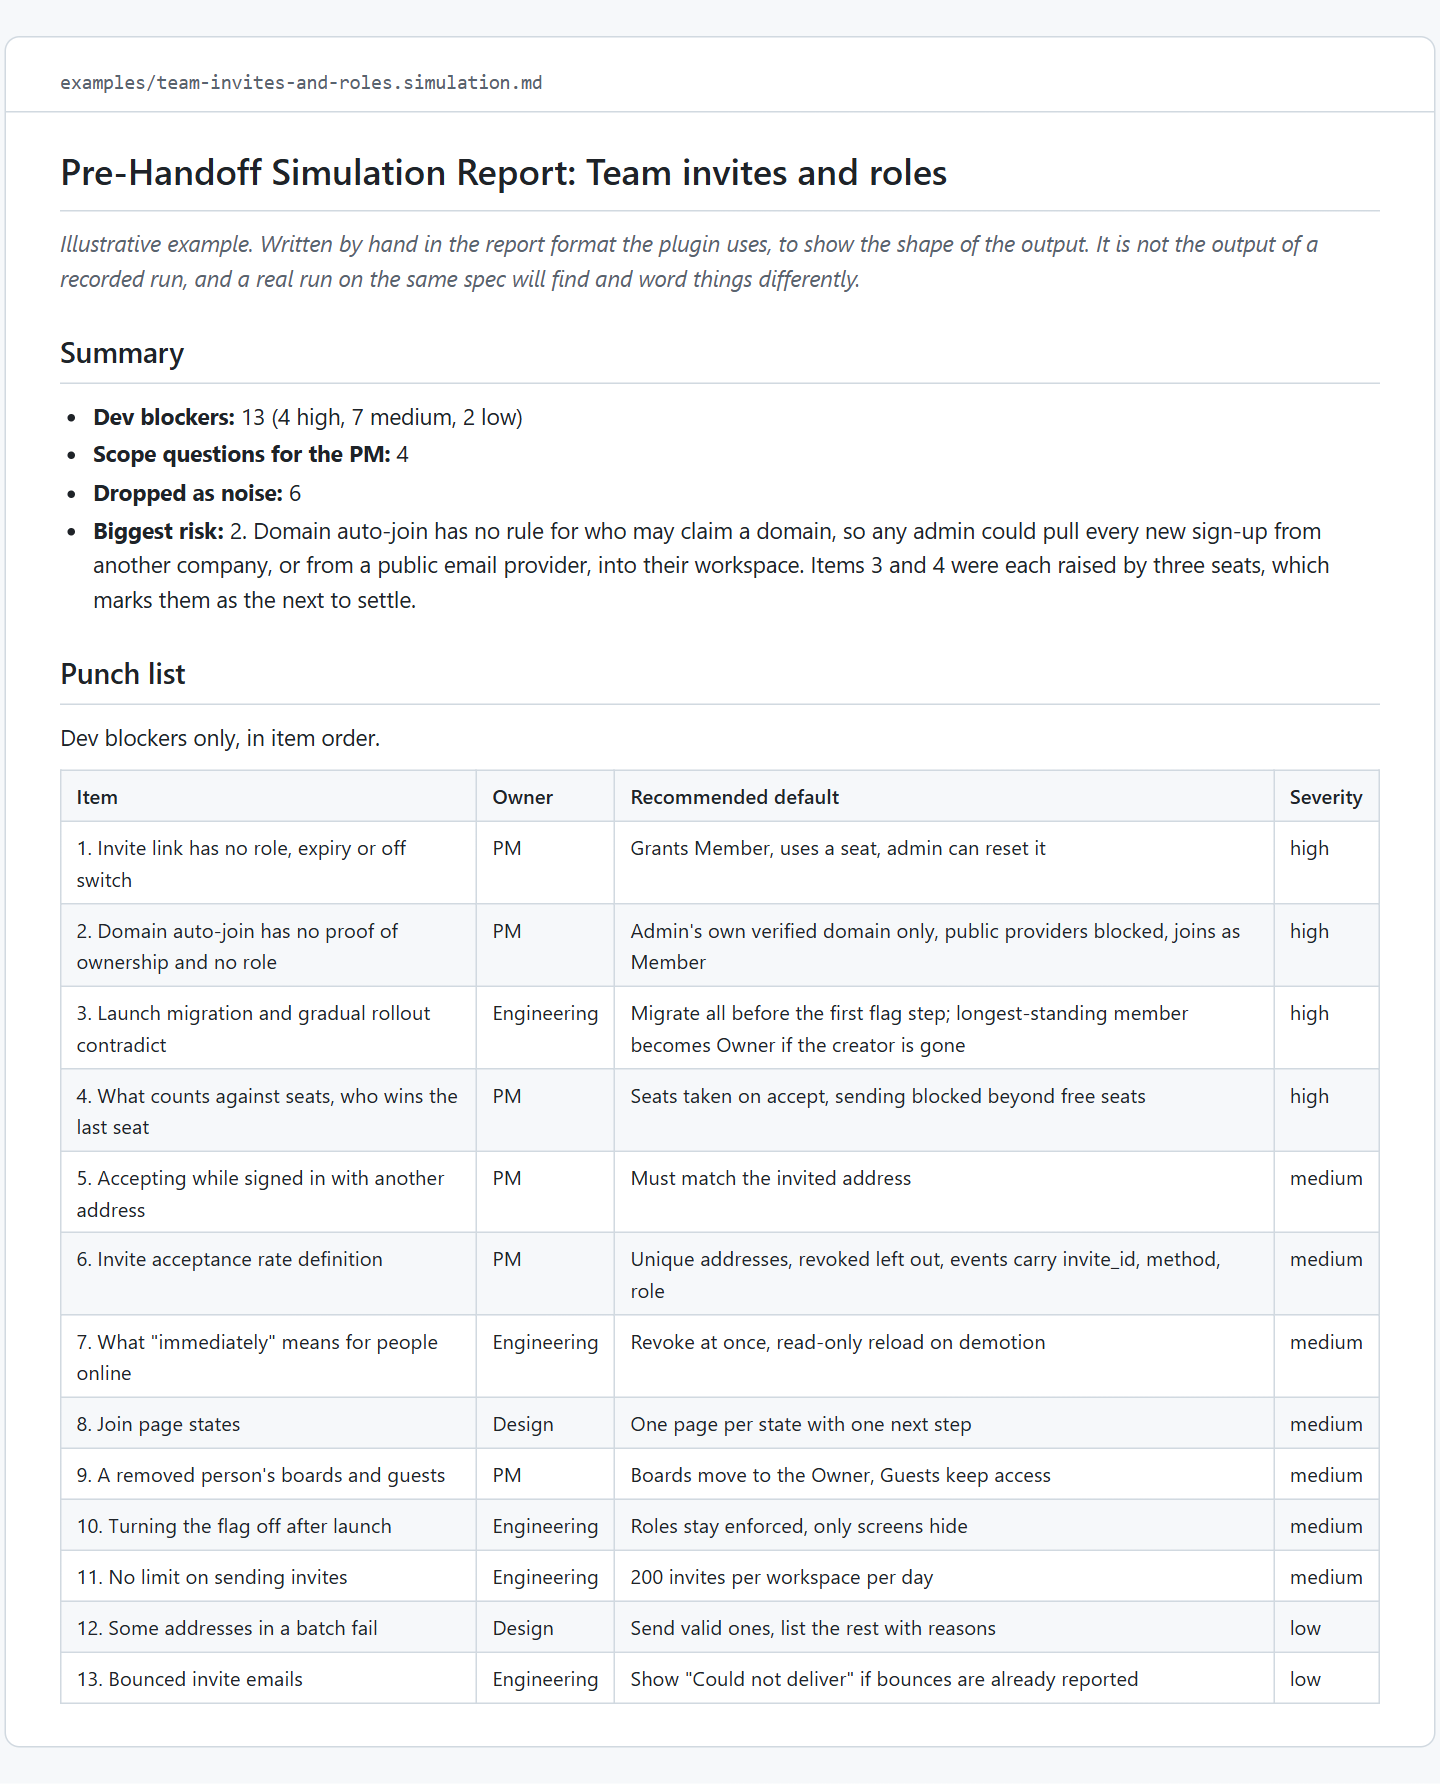
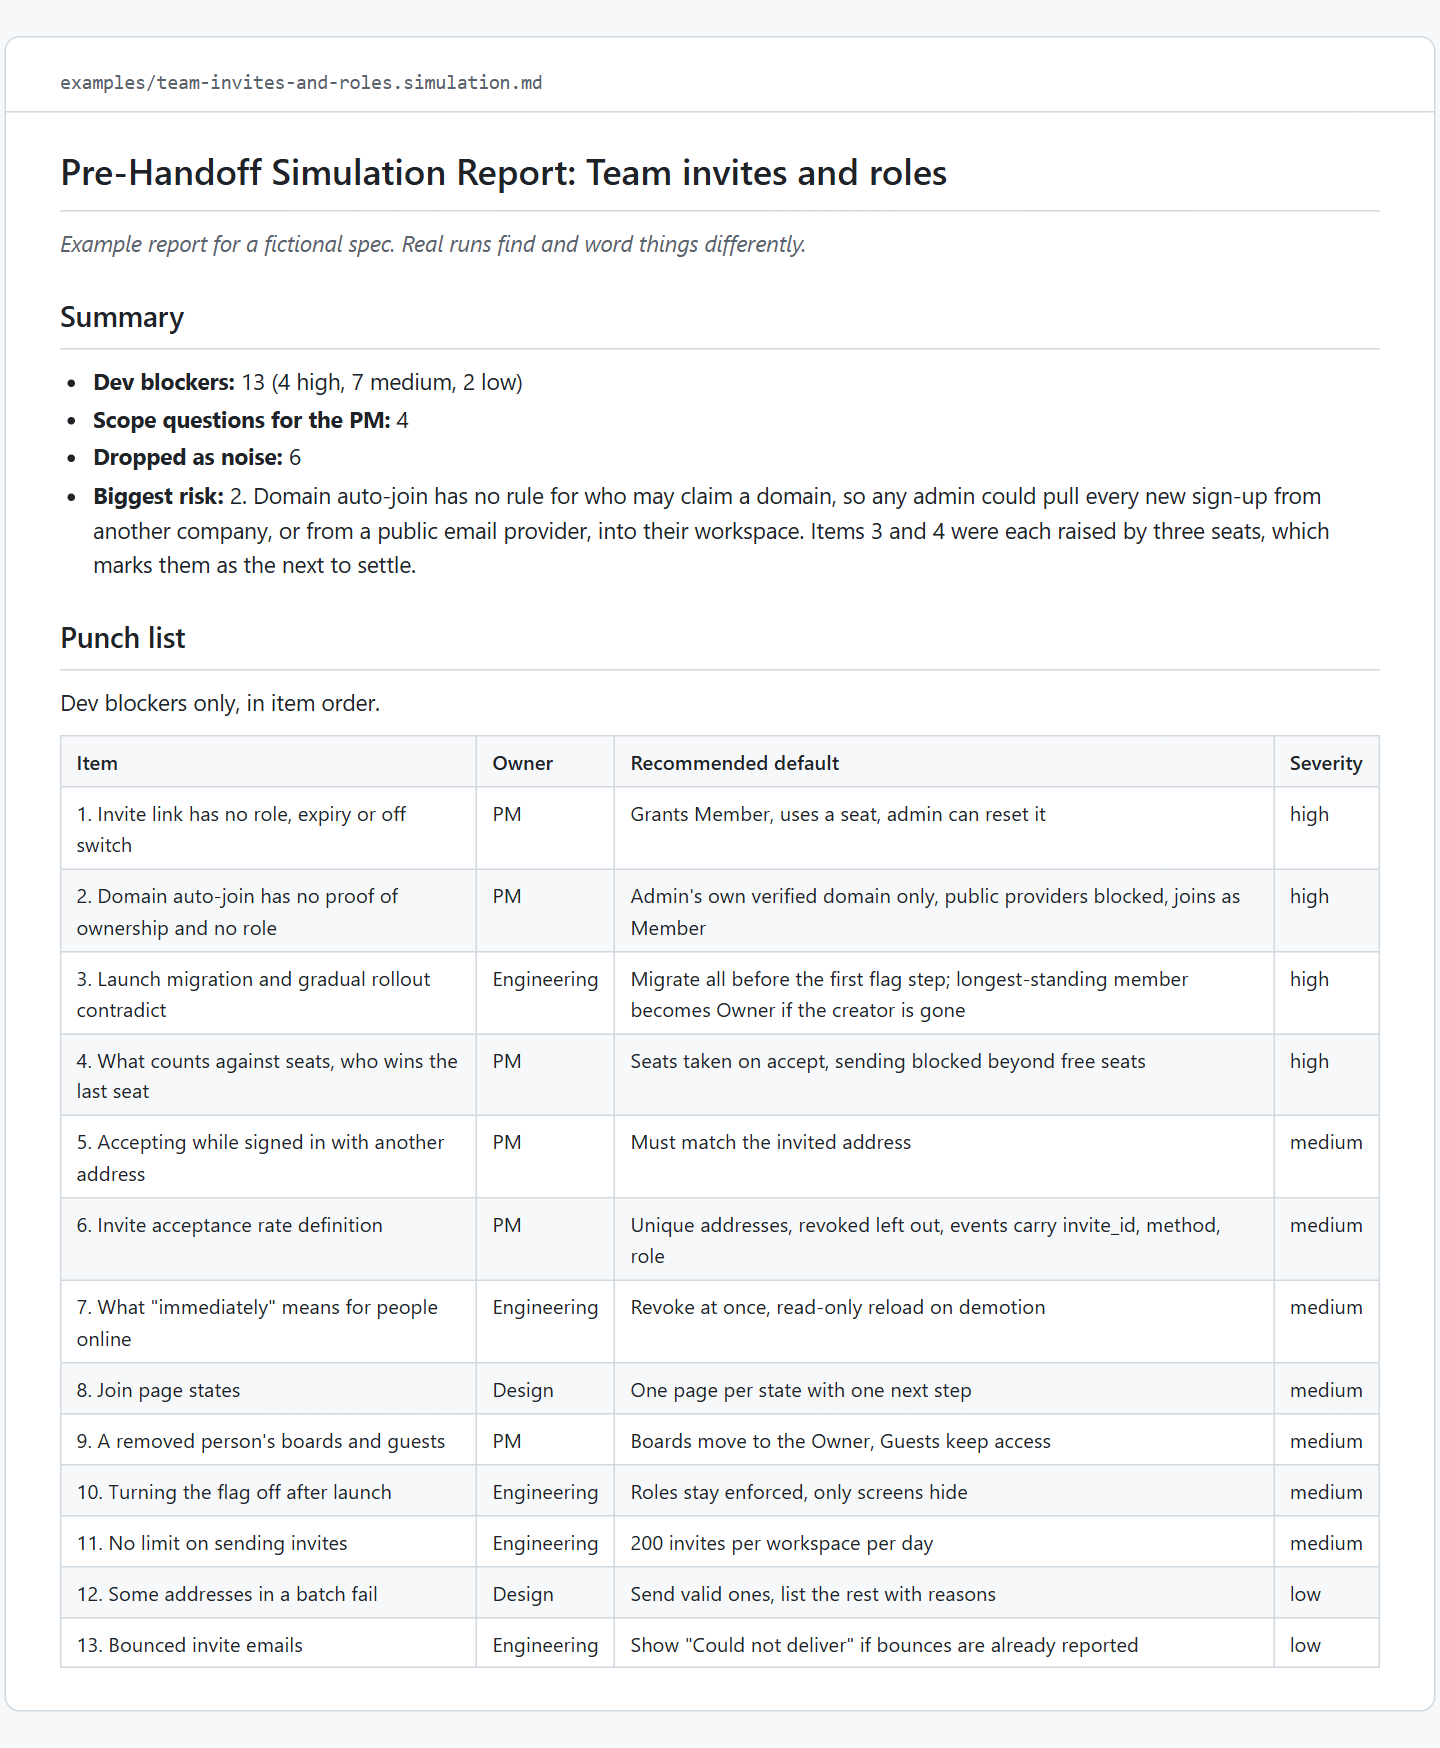
Clearer install notes, example reports in the real run format, refreshed README image

diff --git a/README.md b/README.md
@@ -50,6 +50,14 @@ git clone https://github.com/ardaasaroglu/prd-simulator.git
 claude --plugin-dir ./prd-simulator
 ```
 
+Then try it on the bundled example:
+
+```text
+/prd-simulator:simulate prd-simulator/examples/team-invites-and-roles.md
+```
+
+`prd-simulator@prd-simulator` reads as plugin@marketplace: this repository is both. Validated with Claude Code 2.1.238 and 2.1.295.
+
 Update with `claude plugin update prd-simulator@prd-simulator`, then restart Claude Code.
 
 ## Usage

diff --git a/examples/offline-order-history-and-refunds.simulation.md b/examples/offline-order-history-and-refunds.simulation.md
@@ -3,7 +3,7 @@
 * **Spec:** examples/offline-order-history-and-refunds.md
 * **Date:** 2026-10-14
 * **Seats run:** Backend, Frontend and mobile, Integrations, Data and analytics, Security and privacy, QA and release
-* **Run mode:** example
+* **Run mode:** parallel subagents
 * **Context files:** none
 
 *Example report for a fictional spec. Real runs find and word things differently.*

diff --git a/examples/team-invites-and-roles.simulation.md b/examples/team-invites-and-roles.simulation.md
@@ -3,7 +3,7 @@
 * **Spec:** examples/team-invites-and-roles.md
 * **Date:** 2026-10-14
 * **Seats run:** Backend, Frontend and mobile, Integrations, Data and analytics, Security and privacy, QA and release
-* **Run mode:** example
+* **Run mode:** parallel subagents
 * **Context files:** none
 
 *Example report for a fictional spec. Real runs find and word things differently.*
